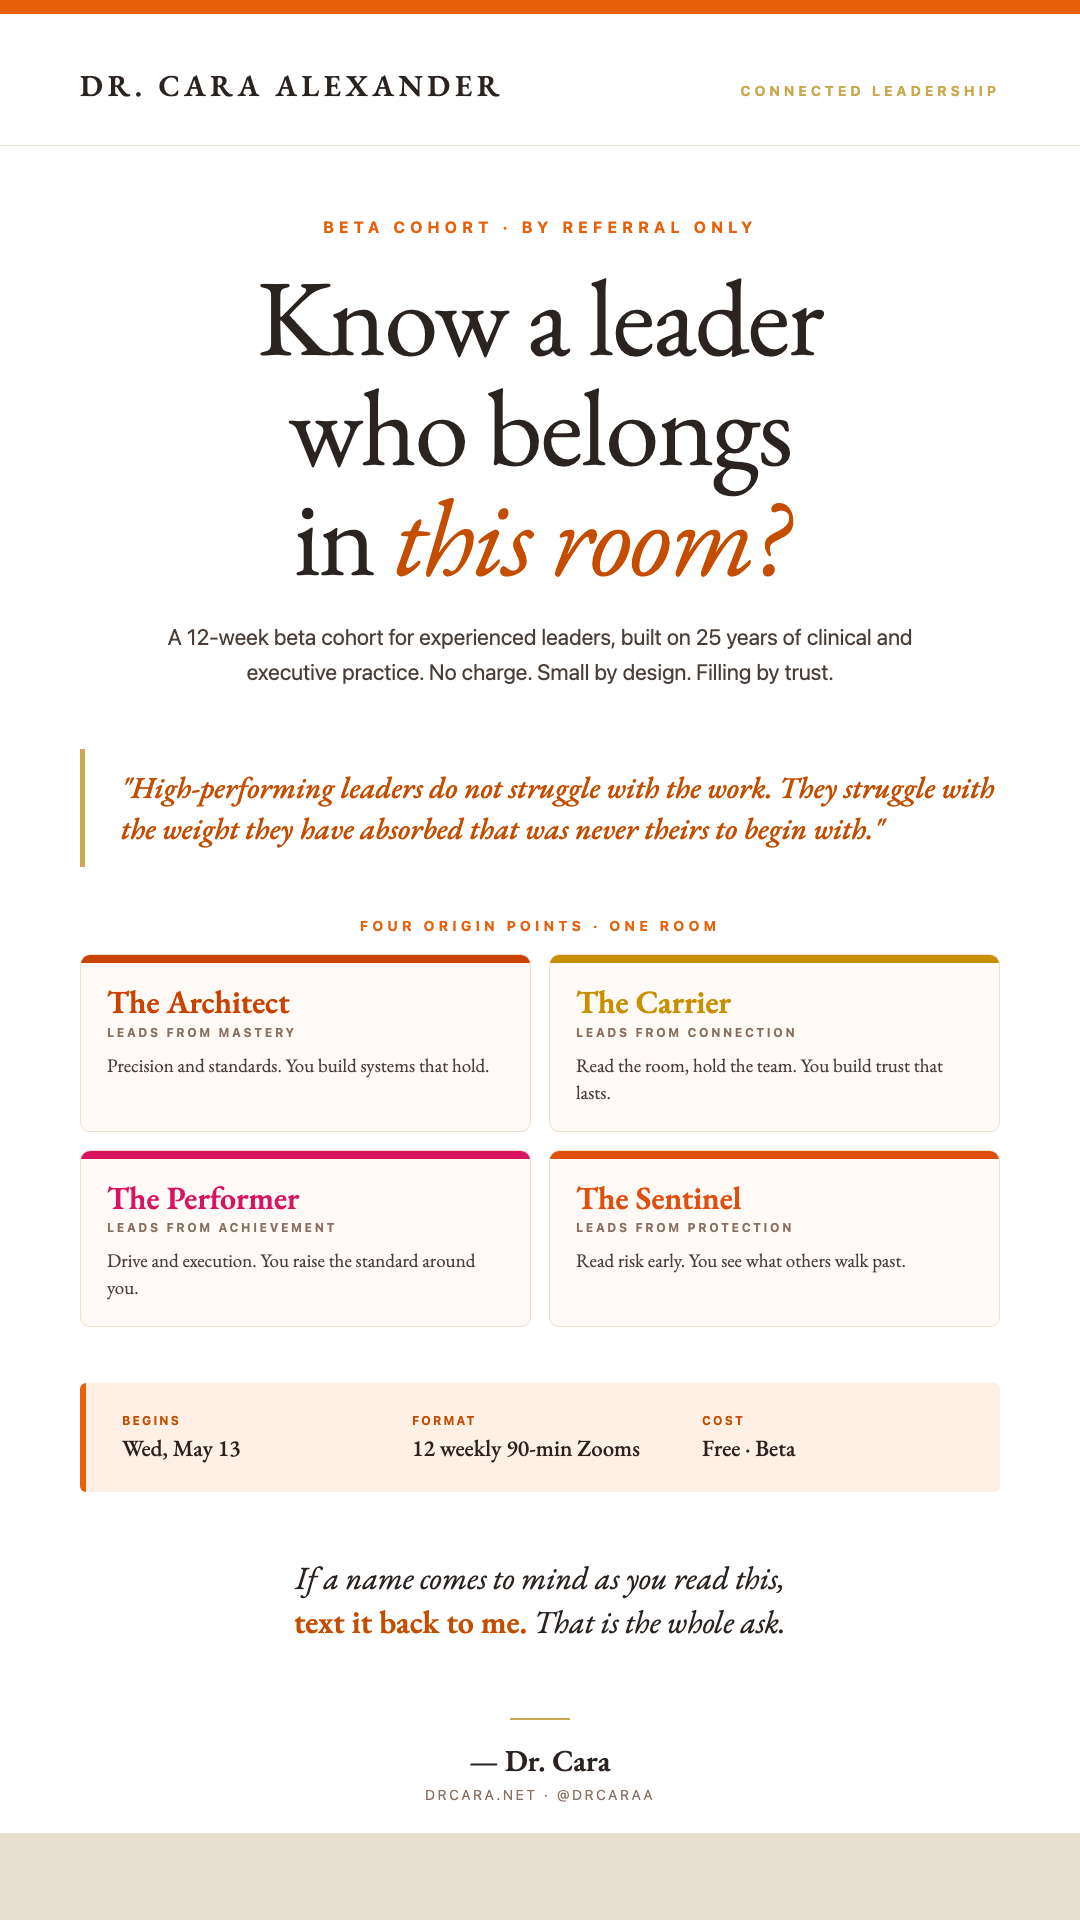
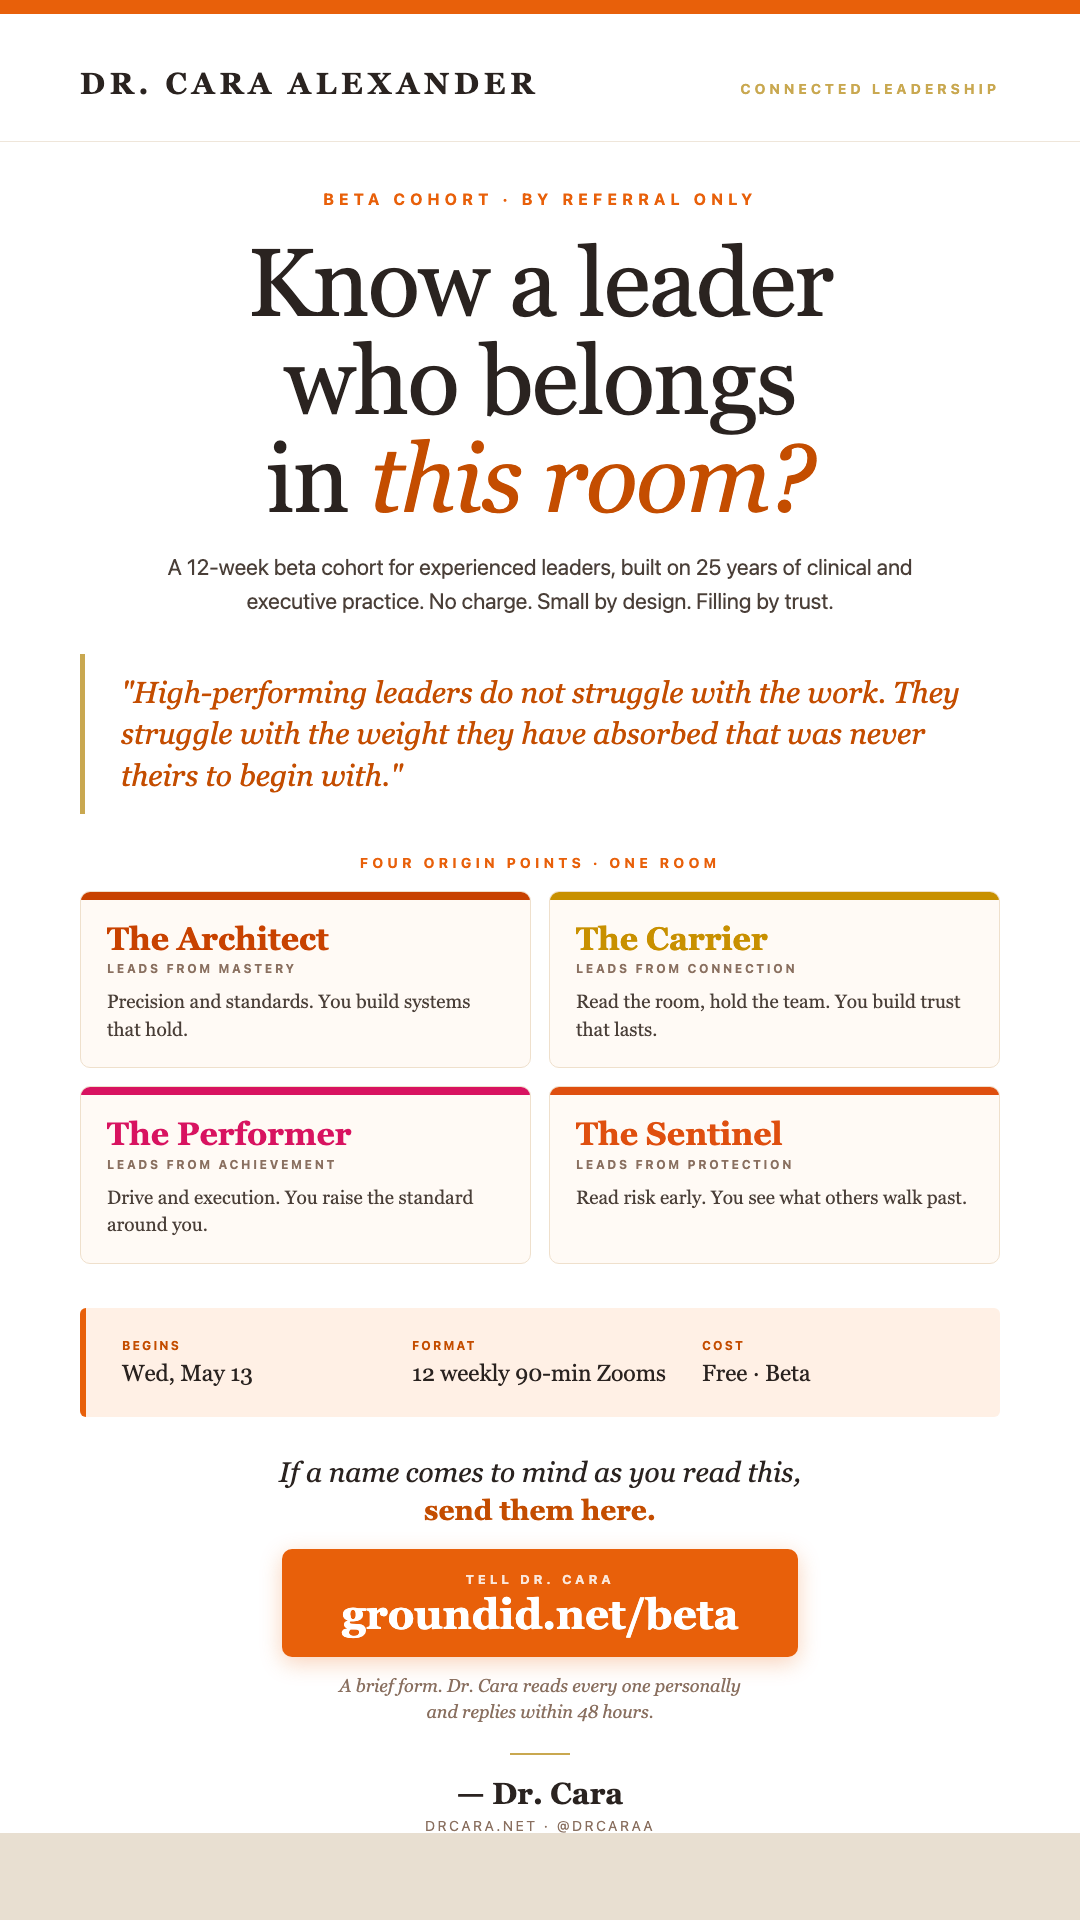
Update referral card: add groundid.net/beta URL for direct sharing
- Replace 'text it back to me' CTA with prominent orange URL card showing groundid.net/beta
- Add supporting text: 'A brief form. Dr. Cara reads every one personally and replies within 48 hours.'
- Tighten vertical spacing so everything fits cleanly in 1080x1920 texting frame
- Regenerate PNG for iMessage/SMS distribution

diff --git a/designer-handoff/groundid-leader-referral-card.html b/designer-handoff/groundid-leader-referral-card.html
@@ -79,7 +79,7 @@
 
   /* Hero */
   .hero {
-    padding: 72px 80px 40px;
+    padding: 48px 80px 28px;
     text-align: center;
   }
   .kicker {
@@ -93,12 +93,12 @@
   }
   .hero-title {
     font-family: var(--serif);
-    font-size: 108px;
+    font-size: 96px;
     font-weight: 400;
     line-height: 1.02;
     color: var(--dark);
     letter-spacing: -0.015em;
-    margin-bottom: 28px;
+    margin-bottom: 22px;
   }
   .hero-title em {
     font-style: italic;
@@ -115,7 +115,7 @@
 
   /* Pull quote */
   .quote-wrap {
-    padding: 20px 80px 30px;
+    padding: 8px 80px 20px;
   }
   .quote {
     border-left: 5px solid var(--gold);
@@ -193,7 +193,7 @@
 
   /* Schedule card */
   .schedule-wrap {
-    padding: 36px 80px 24px;
+    padding: 24px 80px 12px;
   }
   .schedule {
     background: var(--orange-light);
@@ -223,26 +223,59 @@
 
   /* CTA */
   .cta {
-    padding: 40px 80px 48px;
+    padding: 24px 80px 20px;
     text-align: center;
   }
   .cta-text {
     font-family: var(--serif);
     font-style: italic;
-    font-size: 32px;
-    line-height: 1.38;
+    font-size: 28px;
+    line-height: 1.36;
     color: var(--dark);
-    margin-bottom: 26px;
+    margin-bottom: 20px;
   }
   .cta-text strong {
     color: var(--orange-dark);
     font-weight: 600;
     font-style: normal;
   }
+  .cta-url-card {
+    display: inline-block;
+    background: var(--orange);
+    color: #FFFFFF;
+    padding: 22px 60px;
+    border-radius: 10px;
+    font-family: var(--sans);
+    letter-spacing: 0.06em;
+    box-shadow: 0 6px 22px rgba(232, 96, 10, 0.28);
+  }
+  .cta-url-label {
+    font-size: 13px;
+    font-weight: 700;
+    letter-spacing: 0.3em;
+    text-transform: uppercase;
+    opacity: 0.85;
+    margin-bottom: 6px;
+  }
+  .cta-url {
+    font-family: var(--serif);
+    font-size: 42px;
+    font-weight: 600;
+    letter-spacing: 0;
+    line-height: 1;
+  }
+  .cta-url-sub {
+    margin-top: 16px;
+    font-family: var(--serif);
+    font-size: 18px;
+    font-style: italic;
+    color: var(--muted);
+    line-height: 1.45;
+  }
 
   /* Signature */
   .signature {
-    padding: 0 80px 48px;
+    padding: 8px 80px 32px;
     text-align: center;
   }
   .sig-flourish {
@@ -346,7 +379,12 @@
   </div>
 
   <div class="cta">
-    <div class="cta-text">If a name comes to mind as you read this,<br><strong>text it back to me.</strong> That is the whole ask.</div>
+    <div class="cta-text">If a name comes to mind as you read this,<br><strong>send them here.</strong></div>
+    <div class="cta-url-card">
+      <div class="cta-url-label">Tell Dr. Cara</div>
+      <div class="cta-url">groundid.net/beta</div>
+    </div>
+    <div class="cta-url-sub">A brief form. Dr. Cara reads every one personally<br>and replies within 48 hours.</div>
   </div>
 
   <div class="signature">
